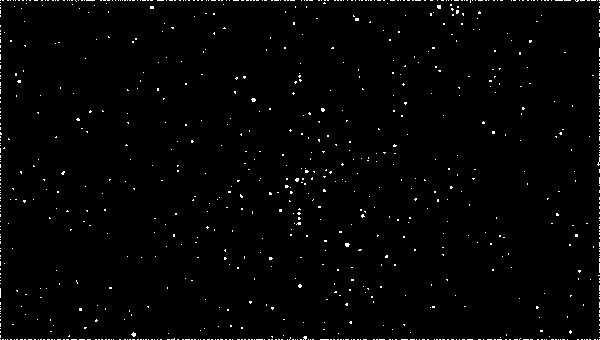
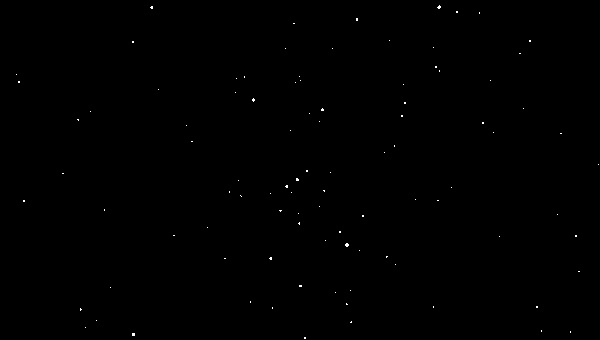
New version

diff --git a/startracker.py b/startracker.py
@@ -1,100 +1,26 @@
+import math
+import numpy
+
 __author__ = 'Szymon Michalski'
 
-
-print('Author: ', __author__)
-
-
-"""
-Processing steps:
-Image correction:
-- Dark frame subtraction
-- Lens correction
-Star detection (acquisition of xy coordinates):
-- Image thresholding
-- Formation of star clusters
-- Image centroiding (possible techniques:
-    - Weighted Sum,
-    - Maximum Likelihood Estimator)
-"""
-
-"""
-Star tracking and attitude computing
-Relative motion tracking                    Star catalogue search
-- operating on xy coordinates               - operating on celestial
-                                            coordinates
-                                            (requires transformation
-                                            from xy coordinates)
-
-                    - Pattern matching (possible techniques:
-                        Angle Matching,
-                        Spherical Triangle Pattern Matching,
-                        Planar Triangle Pattern Matching,
-                        Rate Matching
-                    )
-
-- compares patterns between two frames      - preforms search in on-board
-                                            reduced star catalog
-                                            (k-vector technique)
-
-- requires preliminary knowledge            - no preliminary knowledge required
-of attitude
-- error propagation
-
-                    - Determining the attitude quaternion (possible techniques:
-                        The Predictive Attitude Determination,
-                        QUEST,
-                        TRIAD,
-                        The Singular Value Decomposition,
-                        The Fast Optimal
-                        Attitude Matrix
-                    )
-"""
-
-"""
-1. Star detection
-- Image thresholding: Otsu's method             <---
-- Formation of star clusters: ???
-- Image centroiding (possible techniques:
-    - Weighted Sum,
-    - Maximum Likelihood Estimator)             <---
-2. Celestial to xy                              <---
-3. Pattern Matching
-    - Angle Matching,
-    - Spherical Triangle Pattern Matching,
-    - Planar Triangle Pattern Matching,         <---
-    - Rate Matching
-4. k-vector technique                           <---
-5. Attitude calculation - quaternion
-    - The Predictive Attitude Determination,
-    - QUEST,                                    <---
-    - TRIAD,
-    - The Singular Value Decomposition,
-    - The Fast Optimal
-    - Attitude Matrix
-"""
+vec = [0, 1, 2, 3, 4]
 
 
-import cv2
-import numpy as np
-from matplotlib import pyplot as plt
+def sum_squares(vec):
+    res = 0
+    for elem in vec:
+        res += elem ^ 2
+    return res
 
-img = cv2.imread('1.jpg', 0)
 
-ret, thresh1 = cv2.threshold(img, 127, 255, cv2.THRESH_BINARY)
-ret, thresh2 = cv2.threshold(img, 127, 255, cv2.THRESH_BINARY_INV)
-ret, thresh3 = cv2.threshold(img, 127, 255, cv2.THRESH_TRUNC)
-ret, thresh4 = cv2.threshold(img, 127, 255, cv2.THRESH_TOZERO)
-ret, thresh5 = cv2.threshold(img, 127, 255, cv2.THRESH_TOZERO_INV)
+def vector_length(vec):
+    vec_len = math.sqrt(sum_squares(vec))
+    print(vec_len)
+    return vec_len
 
-thresh = ['img', 'thresh1', 'thresh2', 'thresh3', 'thresh4', 'thresh5']
+vector_length(vec)
+a = numpy.array([1, 3])
+b = numpy.array([9, 5])
+x = a + b
+print(x)
 
-for i in range(6):
-    plt.subplot(2, 3, i+1), plt.imshow(eval(thresh[i]), 'gray')
-    plt.title(thresh[i])
-
-img2 = plt.show()
-from matplotlib.backends.backend_pdf import PdfPages
-pp = PdfPages('multipage.pdf')
-plt.savefig(pp, format='pdf')
-
-cv2.imwrite('result.jpeg', thresh1)

diff --git a/startracker_old.py b/startracker_old.py
@@ -1,0 +1,100 @@
+__author__ = 'Szymon Michalski'
+
+
+print('Author: ', __author__)
+
+
+"""
+Processing steps:
+Image correction:
+- Dark frame subtraction
+- Lens correction
+Star detection (acquisition of xy coordinates):
+- Image thresholding
+- Formation of star clusters
+- Image centroiding (possible techniques:
+    - Weighted Sum,
+    - Maximum Likelihood Estimator)
+"""
+
+"""
+Star tracking and attitude computing
+Relative motion tracking                    Star catalogue search
+- operating on xy coordinates               - operating on celestial
+                                            coordinates
+                                            (requires transformation
+                                            from xy coordinates)
+
+                    - Pattern matching (possible techniques:
+                        Angle Matching,
+                        Spherical Triangle Pattern Matching,
+                        Planar Triangle Pattern Matching,
+                        Rate Matching
+                    )
+
+- compares patterns between two frames      - preforms search in on-board
+                                            reduced star catalog
+                                            (k-vector technique)
+
+- requires preliminary knowledge            - no preliminary knowledge required
+of attitude
+- error propagation
+
+                    - Determining the attitude quaternion (possible techniques:
+                        The Predictive Attitude Determination,
+                        QUEST,
+                        TRIAD,
+                        The Singular Value Decomposition,
+                        The Fast Optimal
+                        Attitude Matrix
+                    )
+"""
+
+"""
+1. Star detection
+- Image thresholding: Otsu's method             <---
+- Formation of star clusters: ???
+- Image centroiding (possible techniques:       http://answers.opencv.org/question/460/finding-centroid-of-a-mask/
+    - Weighted Sum,
+    - Maximum Likelihood Estimator)             <---
+2. Celestial to xy                              <---
+3. Pattern Matching
+    - Angle Matching,
+    - Spherical Triangle Pattern Matching,
+    - Planar Triangle Pattern Matching,         <---
+    - Rate Matching
+4. k-vector technique                           <---
+5. Attitude calculation - quaternion
+    - The Predictive Attitude Determination,
+    - QUEST,                                    <---
+    - TRIAD,
+    - The Singular Value Decomposition,
+    - The Fast Optimal
+    - Attitude Matrix
+"""
+
+
+import cv2
+import numpy as np
+from matplotlib import pyplot as plt
+
+img = cv2.imread('1.jpg', 0)
+
+ret, thresh1 = cv2.threshold(img, 230, 255, cv2.THRESH_BINARY)
+ret, thresh2 = cv2.threshold(img, 127, 255, cv2.THRESH_BINARY_INV)
+ret, thresh3 = cv2.threshold(img, 127, 255, cv2.THRESH_TRUNC)
+ret, thresh4 = cv2.threshold(img, 127, 255, cv2.THRESH_TOZERO)
+ret, thresh5 = cv2.threshold(img, 127, 255, cv2.THRESH_TOZERO_INV)
+
+thresh = ['img', 'thresh1', 'thresh2', 'thresh3', 'thresh4', 'thresh5']
+
+for i in range(6):
+    plt.subplot(2, 3, i+1), plt.imshow(eval(thresh[i]), 'gray')
+    plt.title(thresh[i])
+
+img2 = plt.show()
+#from matplotlib.backends.backend_pdf import PdfPages
+#pp = PdfPages('multipage.pdf')
+#plt.savefig(pp, format='pdf')
+
+cv2.imwrite('result.jpeg', thresh1)

diff --git a/centroid.py b/centroid.py
@@ -1,0 +1,36 @@
+__author__ = 'Szymon Michalski'
+# 1.
+a_roi = 5
+i_threshold = 5
+
+for x, y in image:
+    if I(x, y) > i_threshold:
+        x_start = x - (a_roi - 1)/2
+        y_start = y - (a_roi - 1)/2
+        x_end = x_start + a_roi
+        y_end = y_start + a_roi
+# 2.
+        if x_start < 0 or y_start < 0:
+            pass
+# 3.
+i_bottom = 0
+i_top = 0
+i_left = 0
+i_right = 0
+i_border = 0
+# 4. - normalization
+# I^(x, y)= I(x, y) - I_border
+
+# 5.
+
+b =
+
+x_cm =
+
+y_cm =
+
+# 6.
+
+# 7.
+
+u

diff --git a/planar_triangle.py b/planar_triangle.py
@@ -1,0 +1,19 @@
+import math
+import numpy as np
+
+__author__ = 'Szymon Michalski'
+p = np.array([0, 0])
+q = np.array([1, 0])
+r = np.array([0, 1])
+
+a = np.linalg.norm(p - q)
+b = np.linalg.norm(q - r)
+c = np.linalg.norm(p - r)
+
+s = 0.5 * (a + b + c)
+
+A = math.sqrt(s*(s-a)*(s-b)*(s-c))
+
+J = A * (a*a + b*b + c*c)/36
+
+print(J)

diff --git a/quest.py b/quest.py
@@ -1,0 +1,2 @@
+__author__ = 'Szymon Michalski'
+
